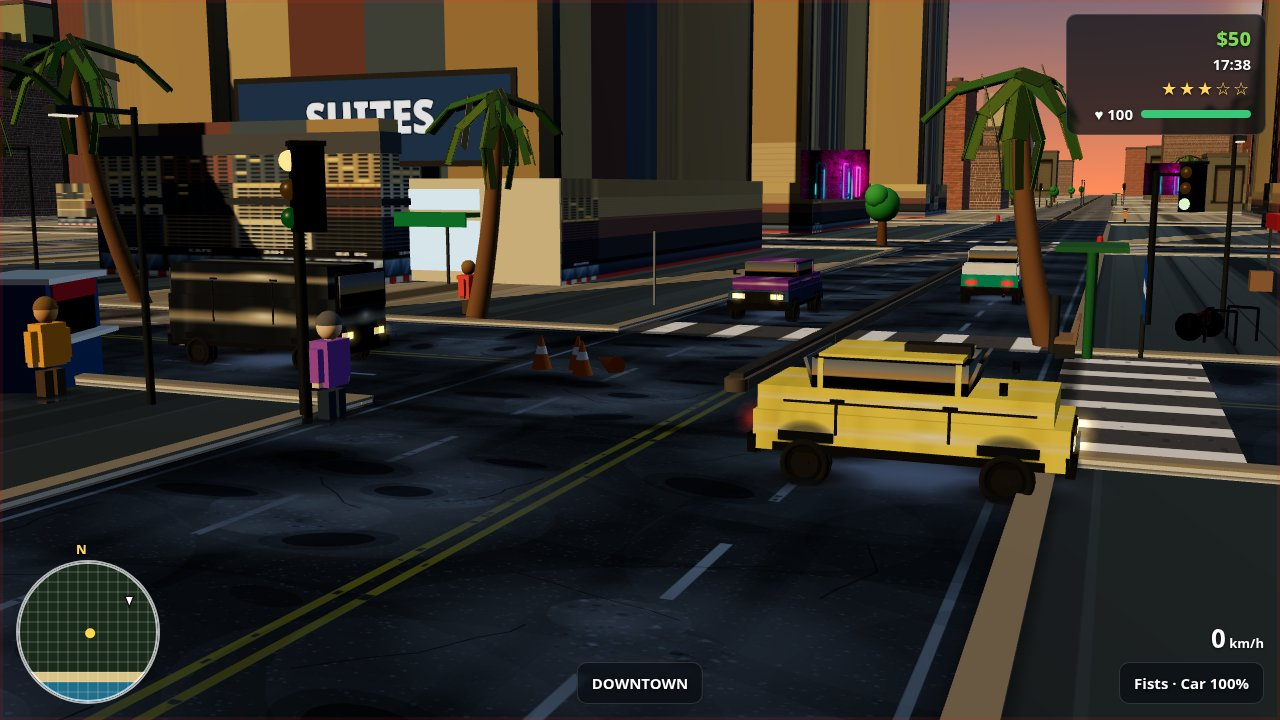
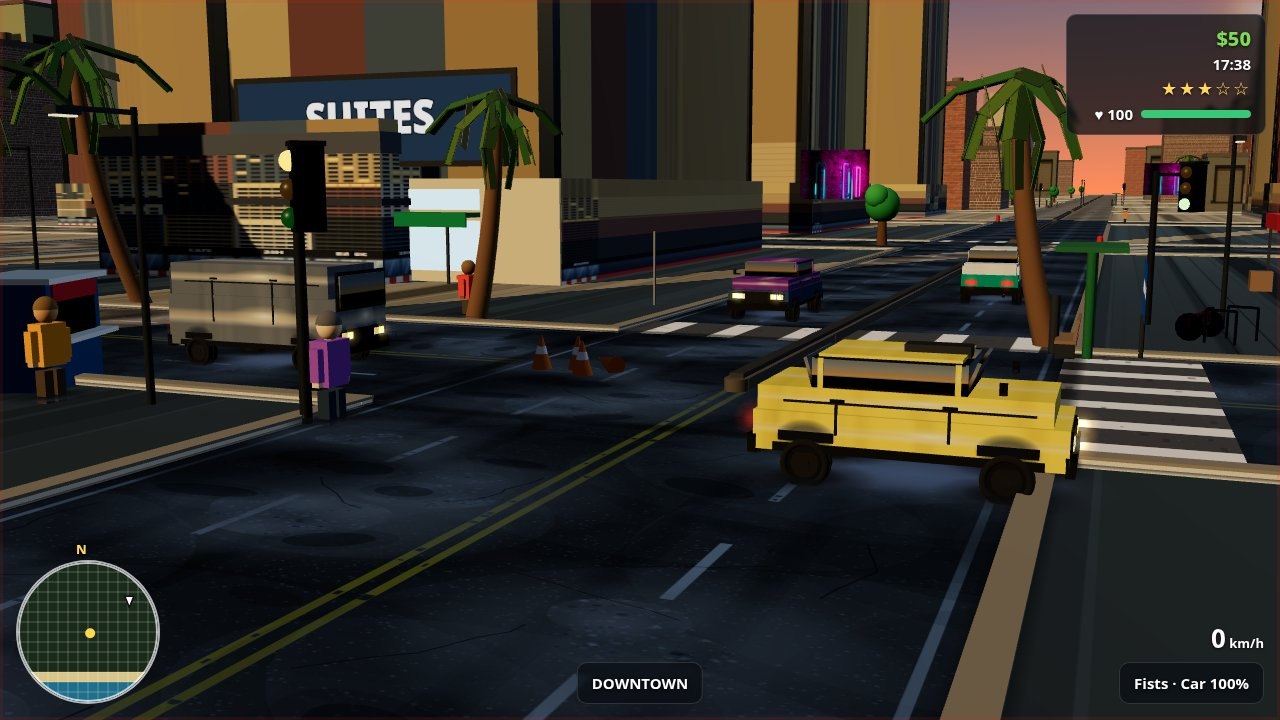
v60 fix round: Superbot final plan — armored van paint lift, chase pull-back, sunset sun/oil/manhole

Changed region(s): [[0.125, 0.3361, 0.3125, 0.4889]]

diff --git a/game/src/shots.js b/game/src/shots.js
@@ -712,9 +712,9 @@ function v58RoadColour(base) {
   for (const s of v58OilSpots()) {
     v58Wrap(x, () => {
       x.save(); x.translate(s.x, s.y); x.rotate(s.rot);
-      x.fillStyle = 'rgba(8,8,10,0.14)';
+      x.fillStyle = 'rgba(8,8,10,0.08)';
       x.beginPath(); x.ellipse(0, 0, s.w * 1.5, s.h * 1.5, 0, 0, PI * 2); x.fill();
-      x.fillStyle = 'rgba(8,8,10,0.38)';
+      x.fillStyle = 'rgba(8,8,10,0.22)';
       x.beginPath(); x.ellipse(0, 0, s.w, s.h, 0, 0, PI * 2); x.fill();
       x.restore();
     });
@@ -1817,7 +1817,13 @@ function stageChase(game) {
   // camera and c2, so the elevated angle is load-bearing here, not
   // a free choice.
   game.cameraAngle = -0.15;
-  game.camDist = 8;
+  // v60 fix round (Superbot final plan, item 3): pull back 1.5 m
+  // (camDist 8 -> 9.5) so the building tops — cornice + waistline —
+  // come back into frame. NOT the pitch: camPitch 0.11 is load-bearing
+  // (camera ~2.8 m, just above the van roof; lower and the van hides
+  // c2 entirely), so the pull-back is the safe option. The elevated
+  // angle is unchanged, so the roof clearance holds.
+  game.camDist = 9.5;
   game.camPitch = 0.11;
   // v58.1: the van sat dead centre and plain — shift the look target
   // east so the van sits off-centre (left) and the east cruiser /
@@ -2240,6 +2246,13 @@ function stageDowntown(game) {
   const parkedSpots = [[243, -194], [242.3, -168.84], [244.5, -204]];
   const others = game.cars.parked.filter((c) => c !== taxi);
   others.slice(0, 3).forEach((c, i) => place(c, parkedSpots[i][0], parkedSpots[i][1], PI / 2));
+  // v60 fix round (Superbot final plan, item 4): the black panel IS the
+  // armored van at (242.3,-168.84) — its stock paint 0x2a2f36 reads as a
+  // frameless black box from this camera (not shelter glass, not a pass
+  // artifact). Lift it to the chase value 0x767c84 so the side reads as
+  // a vehicle; per-car paint material, so no other car is touched.
+  const avp = game.cars.armored && game.cars.armored.mesh.userData.paint;
+  if (avp) { avp.color.setHex(0x767c84); avp.roughness = 0.2; avp.metalness = 0.2; }
   others.slice(3).forEach((c) => { place(c, 0, 300, 0); });
   // v52: contact shadows under every visible vehicle — the cars had
   // none, so they floated on the asphalt (Quick + Superbot v51).
@@ -2382,6 +2395,12 @@ function stageSunset(game) {
   if (game.skyDome) game.skyDome.visible = false;
   if (game.sunBillboard) game.sunBillboard.visible = false;
   game.sun.color.set(0xff7733);
+  // v60 fix round (Superbot final plan, item 2): press the cast-shadow
+  // depth. Three has no shadow-opacity knob, so lower the key itself
+  // (3.0 -> 2.4) in this shot only: the sunlit/shadow gap narrows and
+  // the shadowed road lifts relative to the lit road, while the warm
+  // ambient stays at 0.65 so the sunset does not wash out.
+  game.sun.intensity = 2.4;
   // v60: lift the cast shadows on the road. The low sun throws long
   // building/palm shadows across the street and the shadowed asphalt
   // reads near-black (p5 4-7 L on the v59.1 render). The shadows-off

diff --git a/game/src/city.js b/game/src/city.js
@@ -294,7 +294,11 @@ export function buildCity(scene, rng, textures) {
   }
   // Manholes.
   for (const [hx, hz] of [[120, -183], [180, -177], [237, -90], [0, -30], [60, -183], [243, 30], [-60, -177], [300, -183]]) {
-    const hole = new ME(new CG(0.55, 0.55, 0.06, 12), M(0x222222, 0.9));
+    // v60 fix round (Superbot final plan, item 1): the covers were
+    // 0x222222 (albedo ~0.13) and read as pure-black discs / holes in
+    // the sunset foreground. Lift to 0x383838 (albedo ~0.22, the
+    // reviewer's number) so they read as iron covers, not holes.
+    const hole = new ME(new CG(0.55, 0.55, 0.06, 12), M(0x383838, 0.9));
     hole.position.set(hx, 0.05, hz);
     scene.add(hole);
   }

diff --git a/game/src/v31.js b/game/src/v31.js
@@ -176,7 +176,7 @@ export function makeRoadTexture(aniso) {
   // the same spots glossy.
   for (const [ox, oy, ow, oh] of [[2.6, 180, 55, 30], [8.9, 420, 40, 26], [3.4, 700, 48, 34], [9.5, 880, 38, 22], [5.2, 950, 44, 28]]) {
     wrap(() => {
-      x.fillStyle = 'rgba(8,8,10,0.28)';
+      x.fillStyle = 'rgba(8,8,10,0.18)';
       x.beginPath();
       x.ellipse(ox * m, oy, ow, oh, 0.4, 0, PI * 2);
       x.fill();
